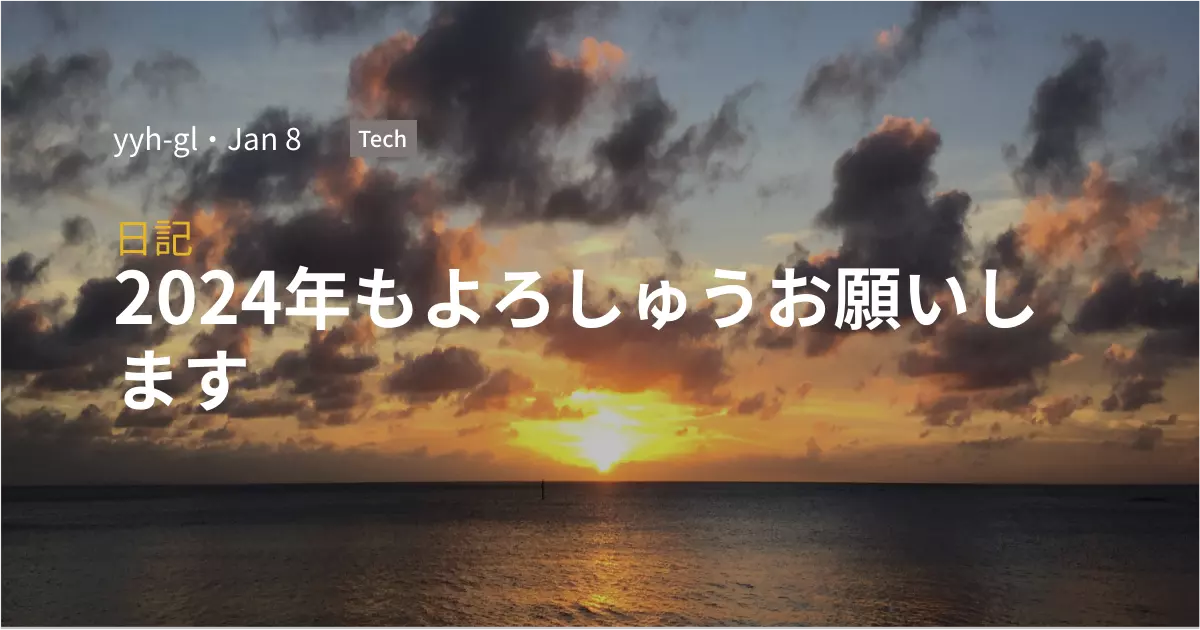
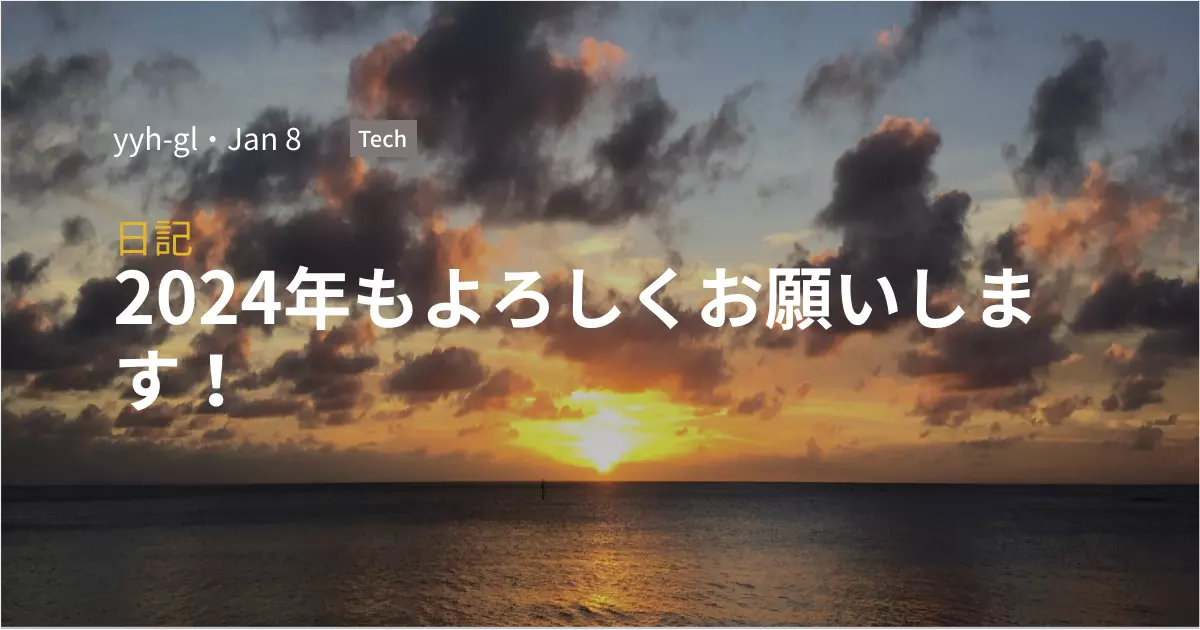
Small fix about new-year-2024

Changed region(s): [[0.5242, 0.4222, 0.8633, 0.5429], [0.0925, 0.5429, 0.2158, 0.6635]]

diff --git a/content/blog/new-year-2024.md b/content/blog/new-year-2024.md
@@ -1,5 +1,5 @@
 +++
-title = "2024年もよろしゅうお願いします"
+title = "2024年もよろしくお願いします！"
 author = "yyh-gl"
 categories = ["日記"]
 tags = ["Tech"]
@@ -20,7 +20,7 @@ draft = false
 転職で始まった2023年も、あっという間に終わりました。<br>
 お世話になった方々ありがとうございました！
 
-今年は昨年以上に頑張っていくのでよろしくお願いします。
+今年も精一杯頑張っていくのでよろしくお願いします。
 
 <br>
 <br>
